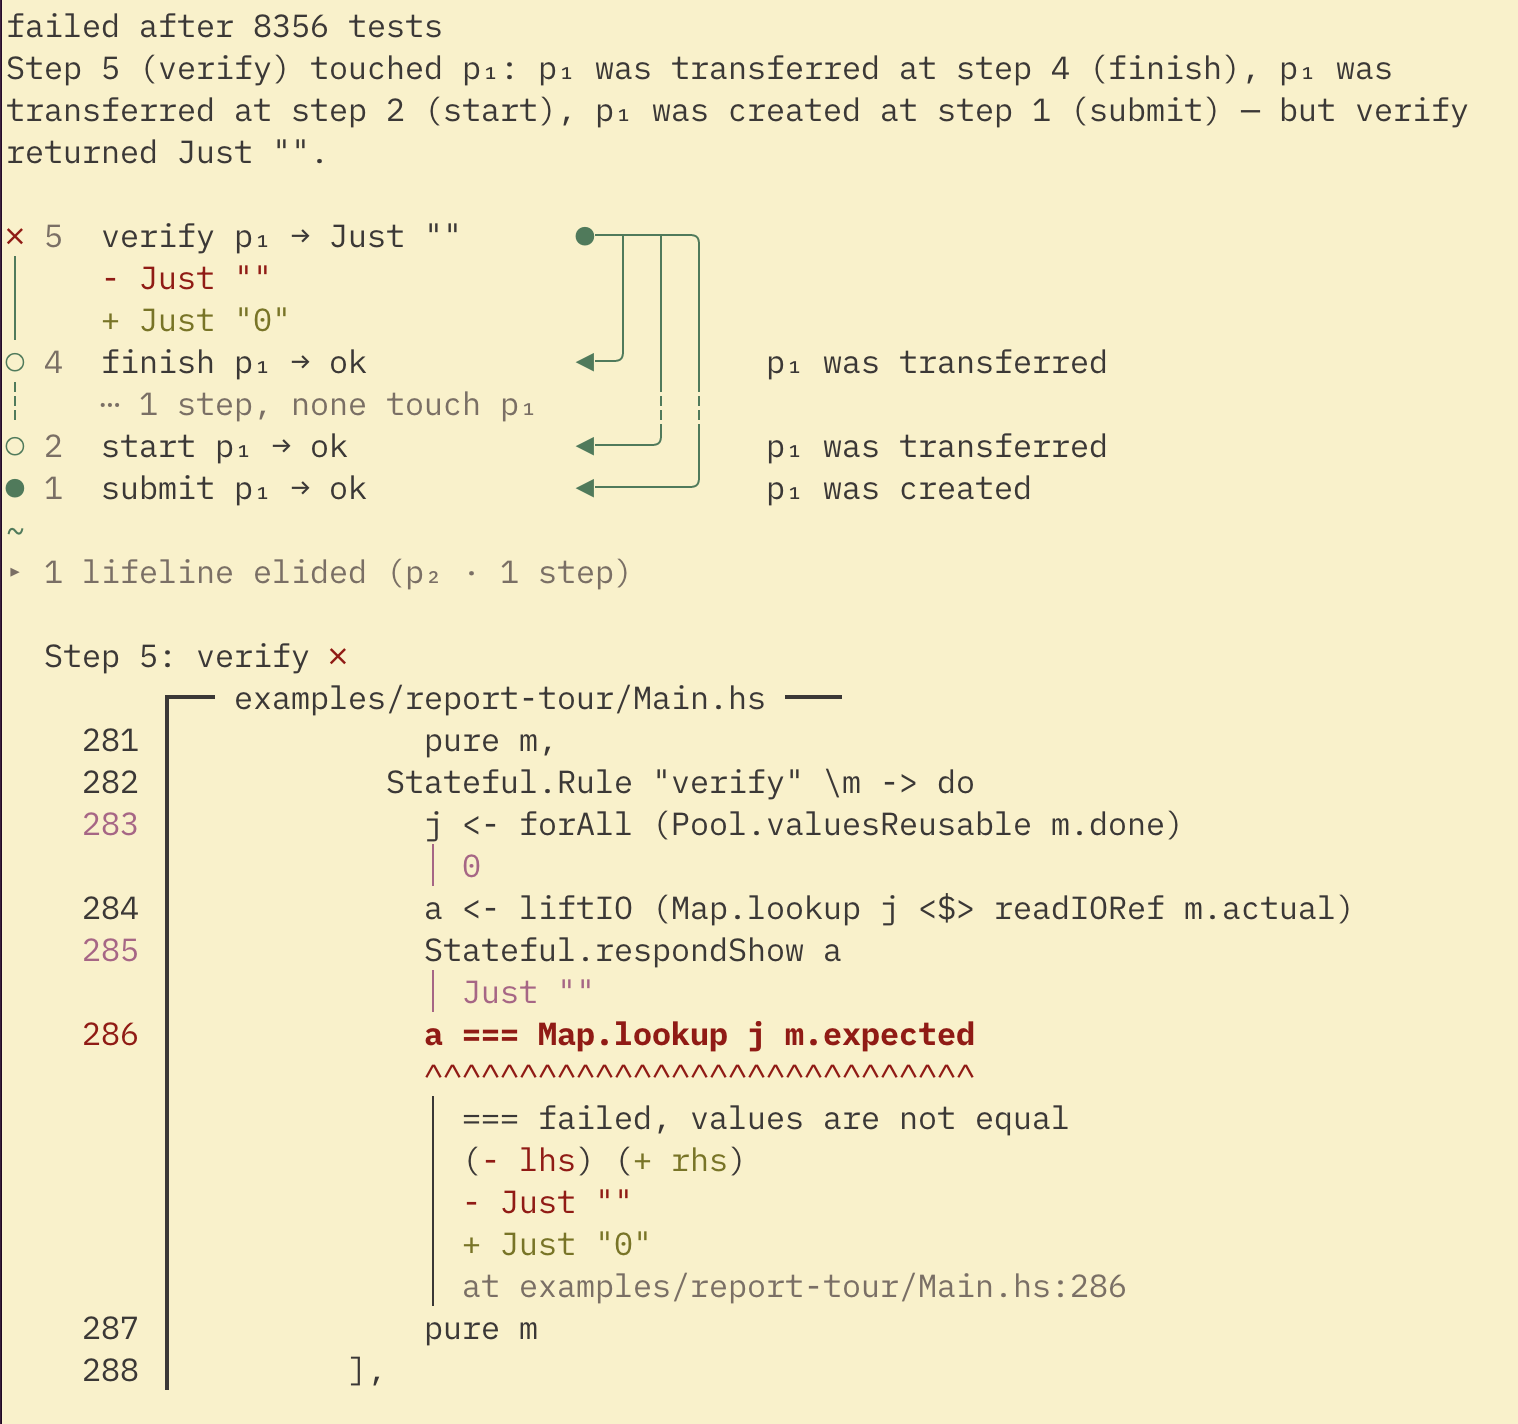
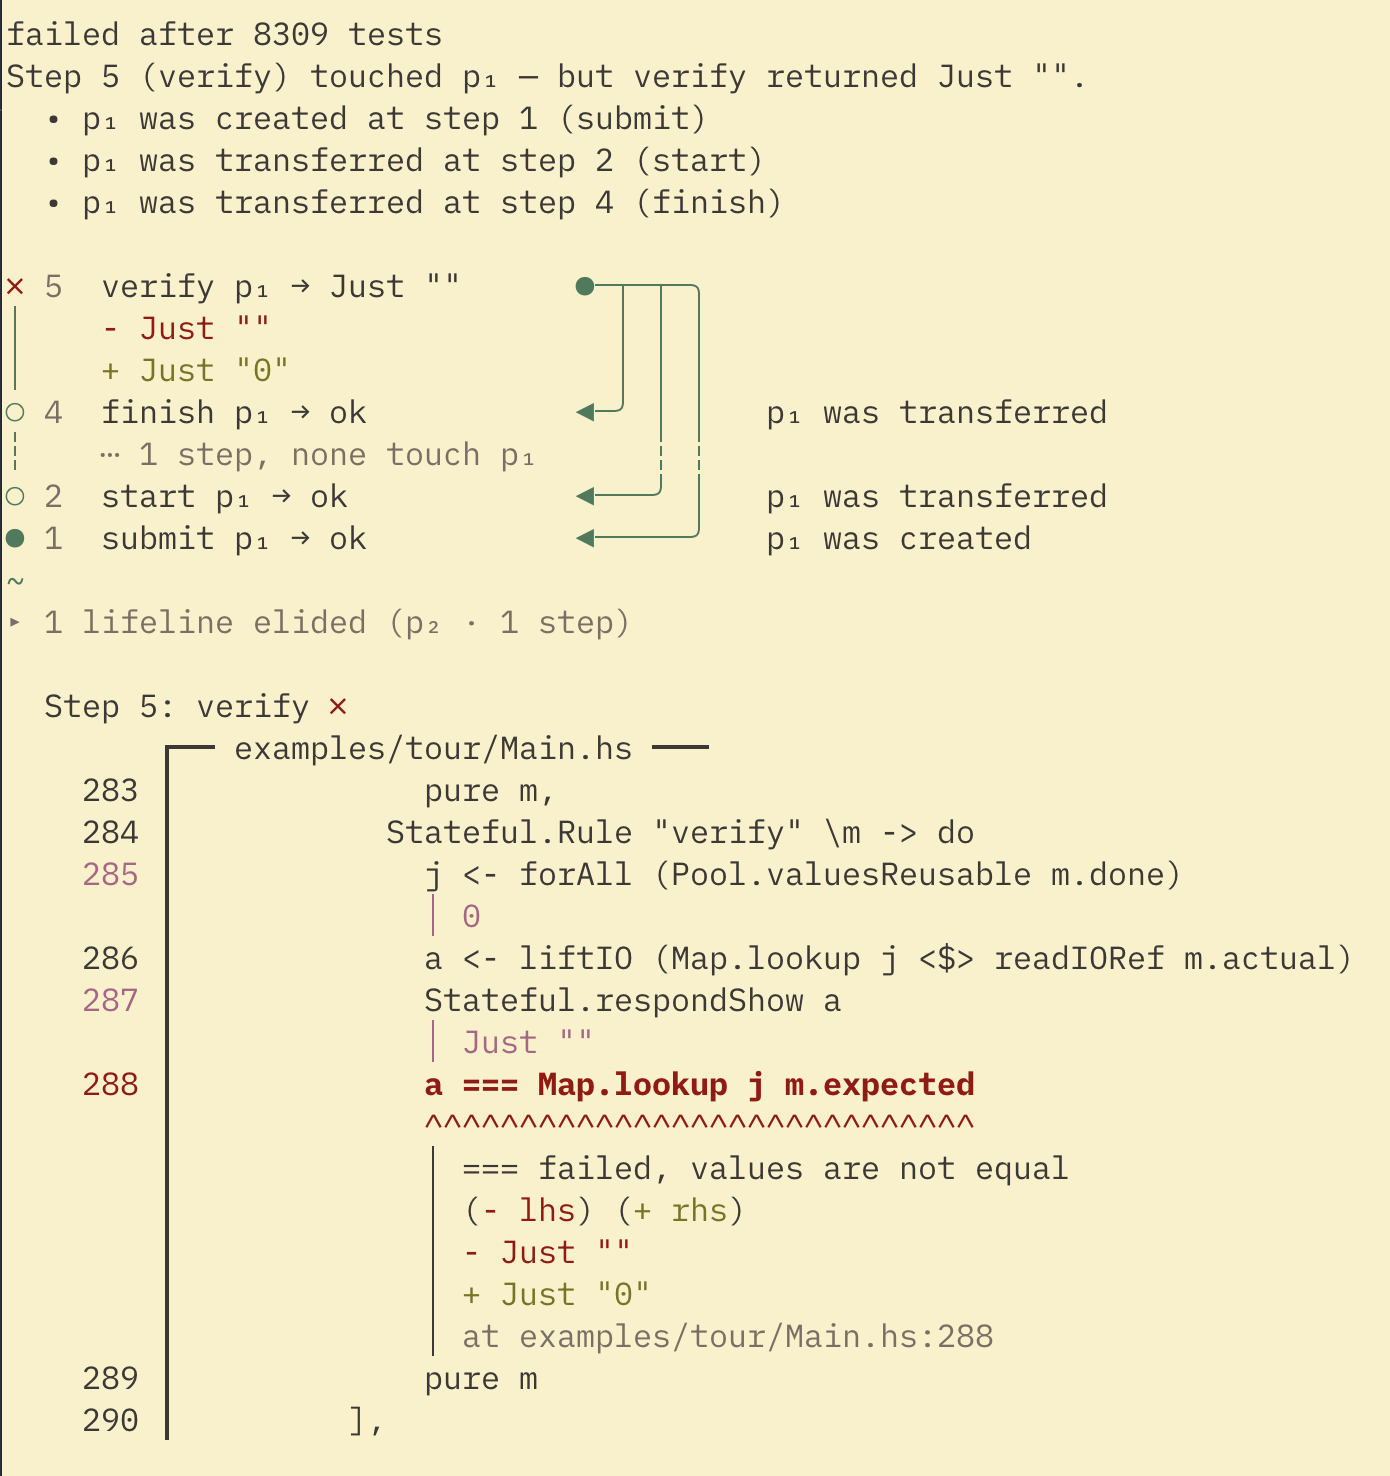
reporter: list-based summary instead of paragraph

diff --git a/notes/decisions/stateful-trace-rendering.md b/notes/decisions/stateful-trace-rendering.md
@@ -11,9 +11,10 @@ builds on).
 
 `renderReportRich`/`renderReportRichAnsi` now produce, for a stateful
 counterexample with pool context: the `failed after N tests` headline, a
-phenomenon chip when a pattern matched, the **verdict paragraph** (a prose
-proof: violation, "since" clauses, quoted outcome), the **citation ledger**
-(the failing value's lifeline as a failure-first slice with a mid-line rail
+phenomenon chip when a pattern matched, the **verdict list** (a headline —
+the violation and observed outcome — over one bullet per justification, in
+chronological order), the **citation ledger**
+(the failing value's lifeline as a failure-first slice with a mid-line link
 drawing the blame edges), the failing step's **freeze-frame splice** (the
 existing Timeline splice, demoted from whole-report to panel), and the
 reproduction **footer** when a database key exists.
@@ -47,7 +48,7 @@ reproduction **footer** when a database key exists.
   (`Phrase.english`) — every sentence the renderers can emit composes table
   fields plus quoted user data, never inflected. `Glyph.displayName`
   resolves value names through lineage roots (`h₁` across pools). Both
-  tables plus the layout knobs (direction, budgets) ride
+  tables plus the layout knobs (budgets) ride
   `Hegel.Report.Style` — the one record every composed-report section
   consumes (`defaultStyle`; the `*With` renderers take it explicitly).
 
@@ -59,13 +60,15 @@ reproduction **footer** when a database key exists.
   `Born` event's lineage — never inferred (a heuristic could silently assert
   a false identity; rejected). `Pool.named` labels a pool's values for the
   report; `Pool.new` keeps auto-letters (`v, w, x…`, doubling past five).
-- **Failure-first is the ledger's default direction** (chronological stays
-  an option, and is the only possible order for anything streamed). Accepted
-  costs recorded in the roadmap note; the verdict paragraph is
-  violation-first too, so prose and geometry read in the same order.
-- **Mid-line rail** (between call column and annotations): justifications
+- **Failure-first is the ledger's only direction** — the failure sits at eye
+  level, history reading back beneath it. (An earlier `Chronological` knob was
+  removed: one order, no configuration.) The **verdict list** reads the other
+  way — chronologically, oldest cause first — because a bulleted list reads
+  most naturally forward in time. These are fixed editorial choices in two
+  renderers over the same `Verdict.plan`/`Blame` data, not a shared knob.
+- **Mid-line link** (between call column and annotations): justifications
   sit at their arrowheads; text stays strictly right of geometry. The call
-  column clips (`⋯`) as the accepted cost. Rail budget 3; overflow degrades
+  column clips (`⋯`) as the accepted cost. Link budget 3; overflow degrades
   to a numeric `← cites …` list.
 - **Elision is explicit, always**: `⋯ n steps` rows (with "none touch h₁"
   when true), `~` history terminator, `▸ k lifelines elided (…)` footer.
@@ -100,18 +103,18 @@ reproduction **footer** when a database key exists.
 - **One edge-set, worded twice**: every step number in the verdict plan is
   in `Blame.citationClosure` (pinned).
 - **Ascii loses no semantics**: the ascii table is injective within each
-  cell family (gutter/rail never share a column; pinned).
+  cell family (gutter/link never share a column; pinned).
 - **Rung 1 is byte-for-byte**: pool-free stateful reports are untouched by
   the slice (pinned, plus all pre-slice pins unchanged).
 - **Totality**: `Trace.build` is total on malformed streams (never-born
   vars synthesized; lineage cycles guarded in `root`/`chain`).
 - **One citation per step**: `Blame` dedupes same-step facts (strongest
-  wins) so the rail never draws an orphan column.
+  wins) so the link never draws an orphan column.
 
 ## Verification
 
 - `just test unit` — `PoolEvents`, `TraceIR`, `LedgerRendering` (byte-exact
-  ledger pins in both directions and both tables, verdict pins, ladder
+  failure-first ledger pins in both glyph tables, verdict-list pins, ladder
   rungs, glyph-preference knob, transliteration), `DatabaseReplay`
   (`ReplayDiverged`), plus all pre-slice pins unchanged.
 - `just gallery` — four scenarios; 3–4 render the